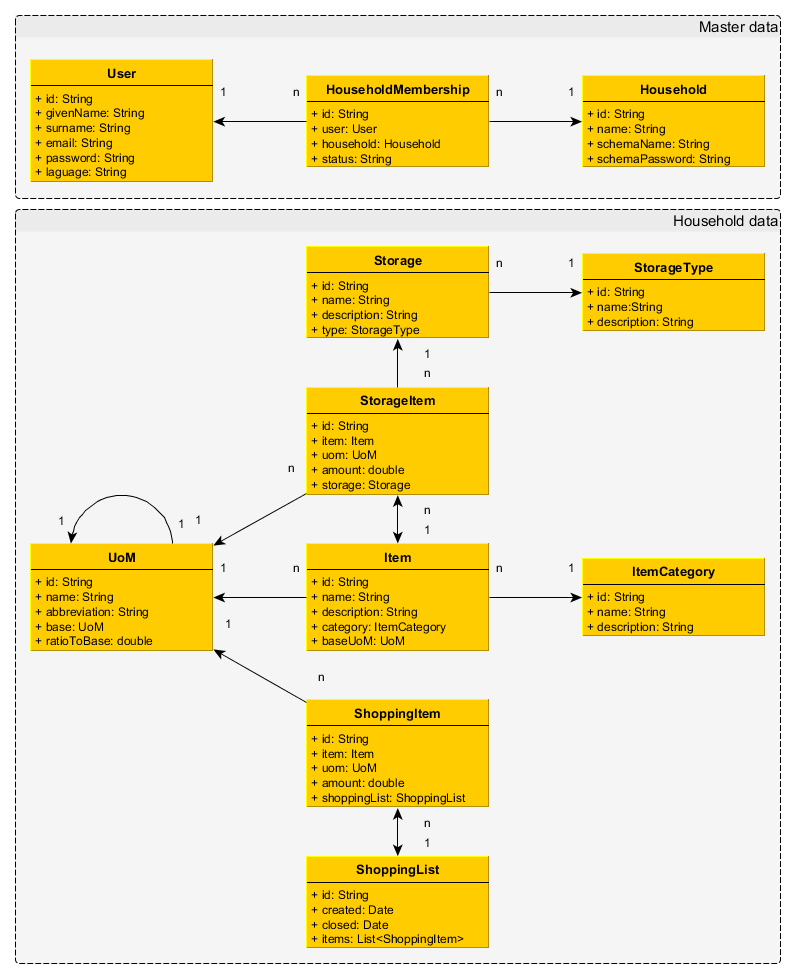
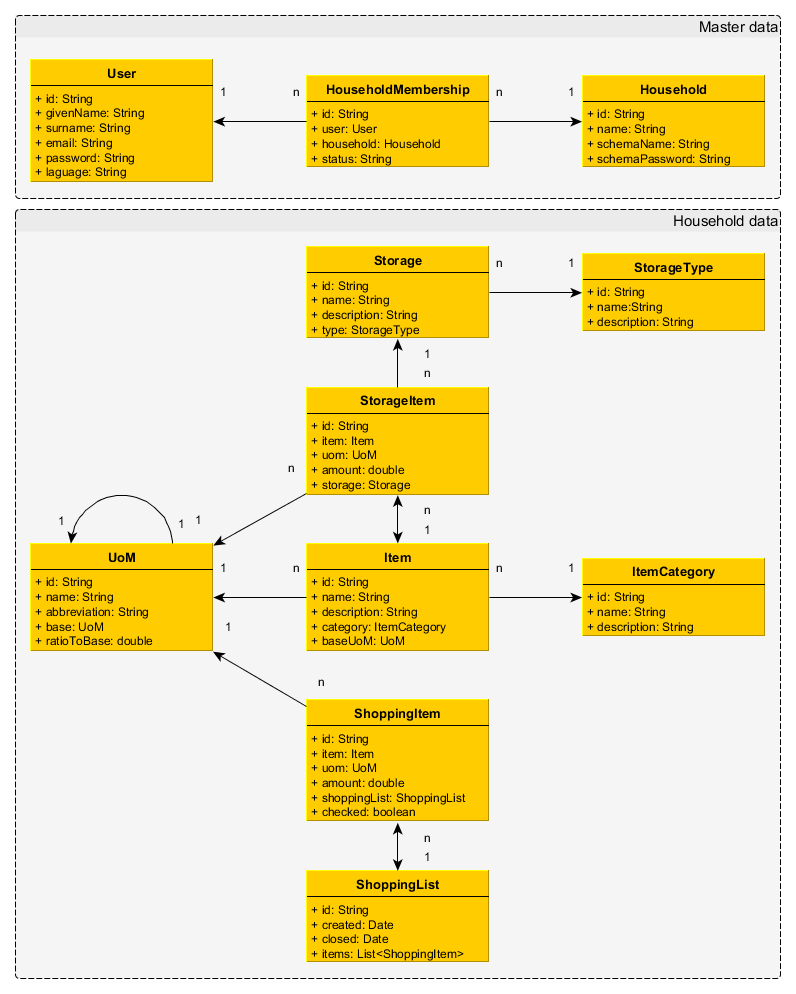
Checked tag added to ShoppingListItem

diff --git a/README.md b/README.md
@@ -411,6 +411,7 @@ Part of the ShoppingList class is ShoppingItem class, descendant of Entity class
 * __uom: UoM__ - unit of measure used for measuring the wanted amount
 * __amount: double__ - wanted amount of item
 * __shoppingList: ShoppingList__ - the shopping list where the item is mentioned
++ __checked: boolean__ - tag stating that the item should be add to storage after the shopping list is closed
 
 Additional methods:
 * __get open shopping list__ - return currently open shopping list
